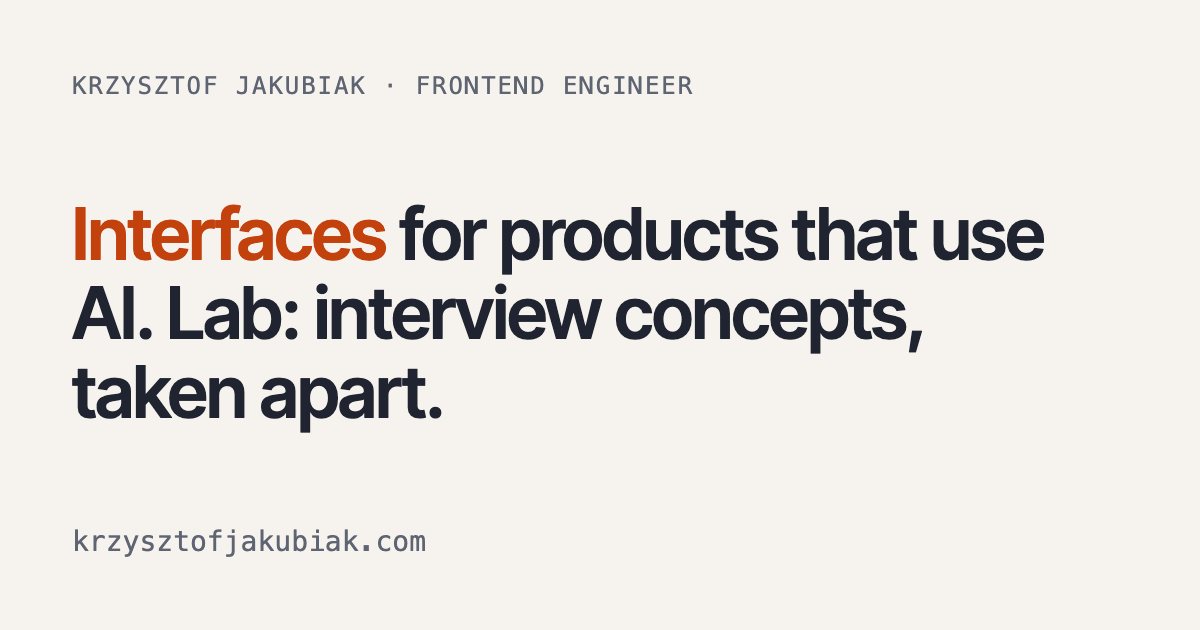
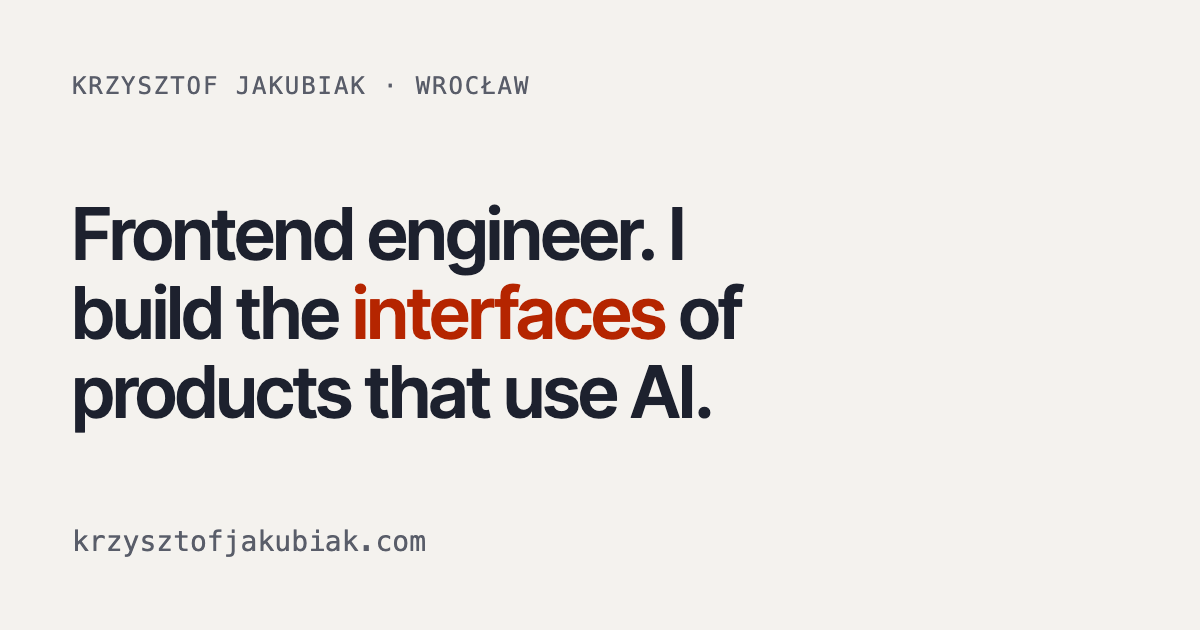
feat: take the OG image text from ui.ts
The OG images carried copy written into the template, separate from the
home headline, so a changed headline would leave stale link previews.

- `ogText(locale)` reads the home hero (eyebrow, headline parts) from
  ui.ts; the render script fills the now text-free template with it
- the script records the rendered text in scripts/og/rendered-text.json;
  a unit test compares it with ui.ts and fails with "run `bun run og`"
  when the copy changed without a re-render
- template colours are the exact light-theme oklch tokens (the old hex
  accent predated the 50% L change); heading uses text-wrap: balance
- both PNGs re-rendered (EN 54 KB, PL 58 KB)

Changed region(s): [[0.0617, 0.3016, 0.8942, 0.573], [0.0617, 0.573, 0.6167, 0.6937], [0.3392, 0.1206, 0.5858, 0.1508]]

diff --git a/scripts/og/template.html b/scripts/og/template.html
@@ -16,33 +16,25 @@
         src: url("../../node_modules/@fontsource-variable/inter-tight/files/inter-tight-latin-ext-wght-normal.woff2") format("woff2-variations");
         unicode-range: U+0100-02BA, U+02BD-02C5, U+02C7-02CC, U+02CE-02D7, U+02DD-02FF, U+0304, U+0308, U+0329, U+1D00-1DBF, U+1E00-1E9F, U+1EF2-1EFF, U+2020, U+20A0-20AB, U+20AD-20C0, U+2113, U+2C60-2C7F, U+A720-A7FF;
       }
-      /* The hex colours approximate the tokens in src/styles/global.css (light theme):
-         #f6f3ee = --surface, #1f2430 = --ink, #5f6472 = --muted, #c2410c = --accent.
-         Update them together with those tokens. */
+      /* Colours are the light-theme tokens from src/styles/global.css; update them together. */
       html, body { margin: 0; }
       body {
         width: 1200px; height: 630px; box-sizing: border-box; padding: 72px;
-        background: #f6f3ee; color: #1f2430;
+        background: oklch(96.2% 0.006 85); color: oklch(25% 0.025 270);
         font-family: "Inter Tight Variable", ui-sans-serif, system-ui, sans-serif;
         display: flex; flex-direction: column; justify-content: space-between;
       }
       p { margin: 0; }
-      .eyebrow { font-family: ui-monospace, SFMono-Regular, Menlo, monospace; font-size: 24px; letter-spacing: 0.08em; text-transform: uppercase; color: #5f6472; }
-      h1 { margin: 0; font-size: 72px; line-height: 1.1; letter-spacing: -0.02em; font-weight: 600; max-width: 1000px; }
-      h1 .accent { color: #c2410c; }
-      .url { font-family: ui-monospace, SFMono-Regular, Menlo, monospace; font-size: 28px; color: #5f6472; }
+      .eyebrow { font-family: ui-monospace, SFMono-Regular, Menlo, monospace; font-size: 24px; letter-spacing: 0.08em; text-transform: uppercase; color: oklch(48% 0.02 270); }
+      h1 { margin: 0; font-size: 72px; line-height: 1.1; letter-spacing: -0.02em; font-weight: 600; max-width: 1000px; text-wrap: balance; }
+      h1 .accent { color: oklch(50% 0.19 40); }
+      .url { font-family: ui-monospace, SFMono-Regular, Menlo, monospace; font-size: 28px; color: oklch(48% 0.02 270); }
     </style>
   </head>
   <body>
-    <p class="eyebrow" data-en="Krzysztof Jakubiak · Frontend engineer" data-pl="Krzysztof Jakubiak · Frontend engineer"></p>
-    <h1>
-      <span class="accent" data-en="Interfaces" data-pl="Interfejsy">Interfaces</span><span data-en=" for products that use AI. Lab: interview concepts, taken apart." data-pl=" produktów, które używają AI. Lab: koncepty z rozmów rekrutacyjnych, rozebrane na części."> for products that use AI. Lab: interview concepts, taken apart.</span>
-    </h1>
+    <!-- Text comes from src/lib/og-text.ts (ui.ts), filled in by scripts/og/render.ts. -->
+    <p class="eyebrow" id="eyebrow"></p>
+    <h1><span id="before">Open Graph image</span><span class="accent" id="accent"></span><span id="after"></span></h1>
     <p class="url">krzysztofjakubiak.com</p>
-    <script>
-      const locale = new URLSearchParams(location.search).get("locale") === "pl" ? "pl" : "en";
-      document.documentElement.lang = locale;
-      for (const el of document.querySelectorAll("[data-en]")) el.textContent = el.dataset[locale];
-    </script>
   </body>
 </html>

diff --git a/scripts/og/render.ts b/scripts/og/render.ts
@@ -1,12 +1,15 @@
 // Renders public/og/{en,pl}.png from scripts/og/template.html (1200x630).
+// Text comes from ogText() (src/i18n/ui.ts). The texts used are written to scripts/og/rendered-text.json;
+// a unit test compares that file with ui.ts, so changed copy without a re-render fails CI.
 //
 // Env:
 //   OG_CHROMIUM_PATH  Optional absolute path to a Chromium/headless-shell binary. When set it is
 //                     passed to chromium.launch as `executablePath`; otherwise Playwright's
 //                     default browser is used.
-import { mkdir } from "node:fs/promises";
+import { mkdir, writeFile } from "node:fs/promises";
 import { fileURLToPath, pathToFileURL } from "node:url";
 import { chromium } from "@playwright/test";
+import { type OgText, ogText } from "../../src/lib/og-text";
 
 const template = fileURLToPath(new URL("./template.html", import.meta.url));
 const outDir = fileURLToPath(new URL("../../public/og/", import.meta.url));
@@ -20,7 +23,18 @@ try {
       viewport: { width: 1200, height: 630 },
       deviceScaleFactor: 1,
     });
-    await page.goto(`${pathToFileURL(template).href}?locale=${locale}`);
+    await page.goto(pathToFileURL(template).href);
+    await page.evaluate(
+      ([lang, text]: [string, OgText]) => {
+        document.documentElement.lang = lang;
+        for (const [id, value] of Object.entries(text)) {
+          const el = document.getElementById(id);
+          if (!el) throw new Error(`template has no #${id}`);
+          el.textContent = value;
+        }
+      },
+      [locale, ogText(locale)] as [string, OgText],
+    );
     await page.evaluate(() => document.fonts.ready);
     await page.screenshot({ path: `${outDir}${locale}.png`, type: "png" });
     await page.close();
@@ -29,3 +43,10 @@ try {
 } finally {
   await browser.close();
 }
+
+const rendered = { en: ogText("en"), pl: ogText("pl") };
+await writeFile(
+  fileURLToPath(new URL("./rendered-text.json", import.meta.url)),
+  `${JSON.stringify(rendered, null, 2)}\n`,
+);
+console.log("wrote scripts/og/rendered-text.json");

diff --git a/src/lib/og-text.test.ts b/src/lib/og-text.test.ts
@@ -1,0 +1,20 @@
+import { describe, expect, it } from "vitest";
+import rendered from "../../scripts/og/rendered-text.json";
+import { locales } from "../i18n/locales";
+import { t } from "../i18n/ui";
+import { ogText } from "./og-text";
+
+describe("ogText", () => {
+  it.each(locales)("is the home hero copy from ui.ts (%s)", (locale) => {
+    expect(ogText(locale)).toEqual({
+      eyebrow: t(locale, "home.eyebrow"),
+      before: t(locale, "home.headline.before"),
+      accent: t(locale, "home.headline.accent"),
+      after: t(locale, "home.headline.after"),
+    });
+  });
+
+  it("matches the text the committed OG images were rendered from (run `bun run og` if not)", () => {
+    expect(rendered).toEqual({ en: ogText("en"), pl: ogText("pl") });
+  });
+});

diff --git a/src/lib/og-text.ts b/src/lib/og-text.ts
@@ -1,0 +1,18 @@
+import type { Locale } from "../i18n/locales";
+import { t } from "../i18n/ui";
+
+export type OgText = { eyebrow: string; before: string; accent: string; after: string };
+
+/**
+ * Text on the Open Graph image: the home hero, so a shared link shows what the page says.
+ * Read by scripts/og/render.ts; src/lib/og-text.test.ts fails when ui.ts changes and the
+ * committed images were not re-rendered.
+ */
+export function ogText(locale: Locale): OgText {
+  return {
+    eyebrow: t(locale, "home.eyebrow"),
+    before: t(locale, "home.headline.before"),
+    accent: t(locale, "home.headline.accent"),
+    after: t(locale, "home.headline.after"),
+  };
+}
